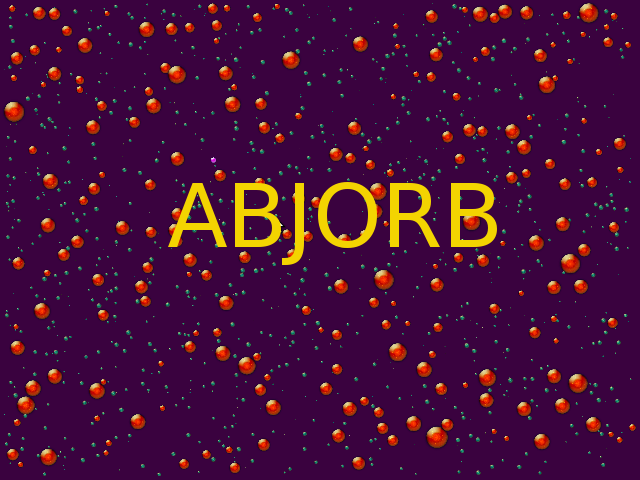
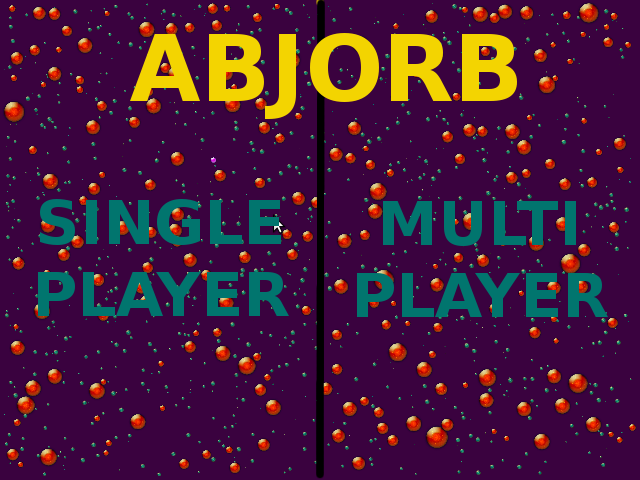
titles screens

Changed region(s): [[0.0625, 0.0, 0.9688, 1.0]]

diff --git a/title.js b/title.js
@@ -11,7 +11,10 @@ Title.prototype.draw = function () {
 
 
 Title.prototype.clickHandler = function (e){
-	G.createWorld();
+	if (e.offsetX < 320)
+		G.current = new Singletitle();
+	else 
+		G.createWorld();
 }
 
 Title.prototype.scrollHandler = function (e){
@@ -56,5 +59,23 @@ Win.prototype.clickHandler = function (e){
 Win.prototype.scrollHandler = function (e){
 }
 
+function Singletitle () {
+}
+
+Singletitle.prototype.update = function () {
+}
+
+
+Singletitle.prototype.draw = function () {
+	G.context.drawImage(G.images.singletitle, 0,0);
+}
+
+
+Singletitle.prototype.clickHandler = function (e){
+		G.createWorld();
+}
+
+Singletitle.prototype.scrollHandler = function (e){
+}
 
 

diff --git a/global.js b/global.js
@@ -26,6 +26,9 @@ function Global () {
 	lose = new Image();
 	lose.src = 'media/lose.png?'+(new Date()).getTime();	
 	this.images.lose = lose;
+	singletitle = new Image();
+	singletitle.src = 'media/singletitle.png?'+(new Date()).getTime();	
+	this.images.singletitle = singletitle;
 	this.current = new Title();
 	
 	this.multiplayer = false
